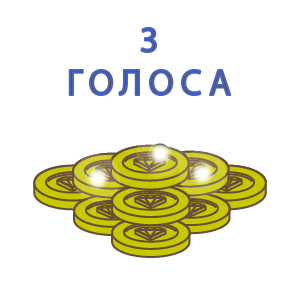
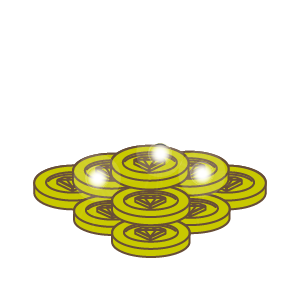
fix votes text

Changed region(s): [[0.21, 0.21, 0.78, 0.33], [0.45, 0.09, 0.54, 0.18]]

diff --git a/client/components/application/gui_elements/DialogMoneyShop.js b/client/components/application/gui_elements/DialogMoneyShop.js
@@ -15,6 +15,13 @@ let DialogMoneyShop = function () {
 
         for (let i = 0; i < 3; i++) {
 
+            el = GUI.createElement(ElementText, {
+                x: offsetX + stepX * i, y: offsetY + 15,
+                text: DataShop.gold[i].votes.toString() + ' <br>ГОЛОС',
+                color: '#4680C2',
+                fontSize: 20, width: Images.getWidth('money_1.png')
+            }).show();
+
             el = GUI.createElement(ElementMoneyCount, {
                 x: offsetX + stepX * i, y: offsetY,
                 productImg: 'money_' + (i + 1) + '.png',
